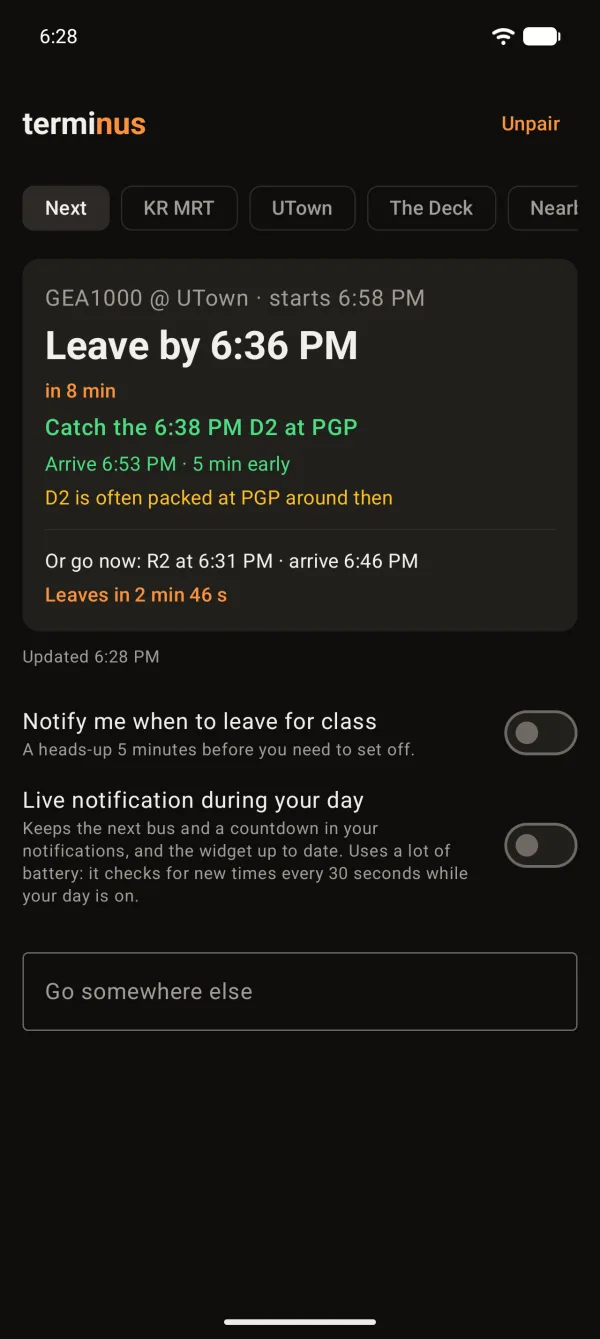
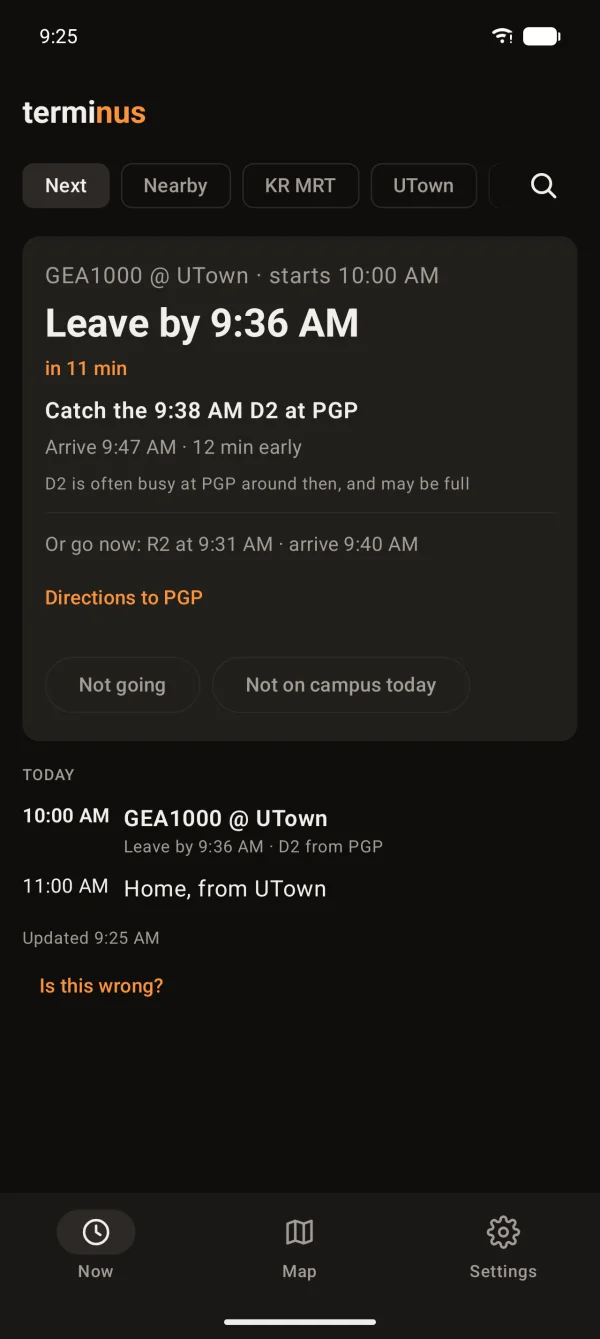
fix(android): Today refreshes with the card; new phone screenshots
- Today was fetched again only when the answer's destination or phase
  changed. On opening, the copy kept on disk counted as loaded, so its
  leave-by times could be hours old beside a fresh card ("Leave by 9:33"
  on the card, 9:32 in Today). It's now also fetched once it's over two
  minutes old, as on the Mac.
- The landing page's phone shots (light and dark) show the current
  layout: chips, the class card and Today, at 9:25 on a weekday. The
  README banners and the link preview image are redrawn from them.

diff --git a/apps/android/app/src/main/java/sh/rcn/terminus/ui/MainViewModel.kt b/apps/android/app/src/main/java/sh/rcn/terminus/ui/MainViewModel.kt
@@ -464,7 +464,11 @@ class MainViewModel(app: Application) : AndroidViewModel(app) {
                     if (s.target == Target.Plan) {
                         // The timeline moves when the answer's trip does.
                         val before = _state.value.answers[Target.Plan]
-                        if (_state.value.day == null || before?.destLabel != answer.destLabel || before?.card?.phase != answer.card?.phase) loadDay()
+                        // And when the kept one is over two minutes old, as on the Mac: the
+                        // copy from disk counts as loaded, so Today's leave-by times could
+                        // be hours old beside a fresh card.
+                        val dayAge = now - (store.lastDay()?.second ?: 0L)
+                        if (_state.value.day == null || dayAge > DAY_MAX_AGE_MS || before?.destLabel != answer.destLabel || before?.card?.phase != answer.card?.phase) loadDay()
                         store.saveAnswer(json, now)
                         Refresher.scheduleNext(ctx, answer, now)
                         store.lastError = null
@@ -515,3 +519,6 @@ class MainViewModel(app: Application) : AndroidViewModel(app) {
 /** Installed by the Play Store, rather than the APK from the website. */
 internal fun installedFromPlay(ctx: android.content.Context): Boolean =
     runCatching { ctx.packageManager.getInstallSourceInfo(ctx.packageName).installingPackageName == "com.android.vending" }.getOrDefault(false)
+
+/** Today is fetched again with the answer once it's this old. */
+private const val DAY_MAX_AGE_MS = 120_000L
